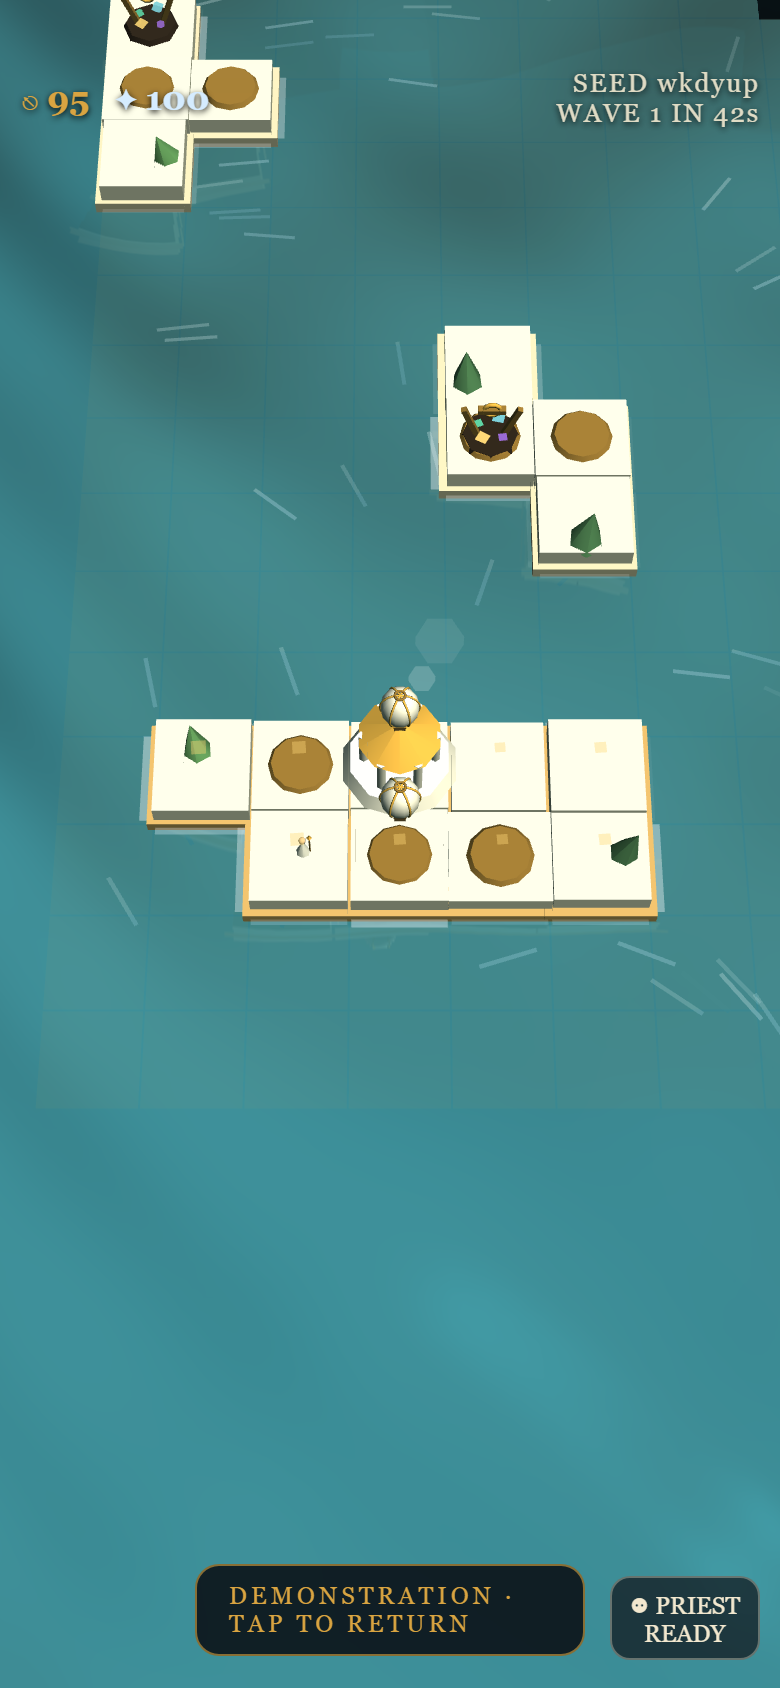
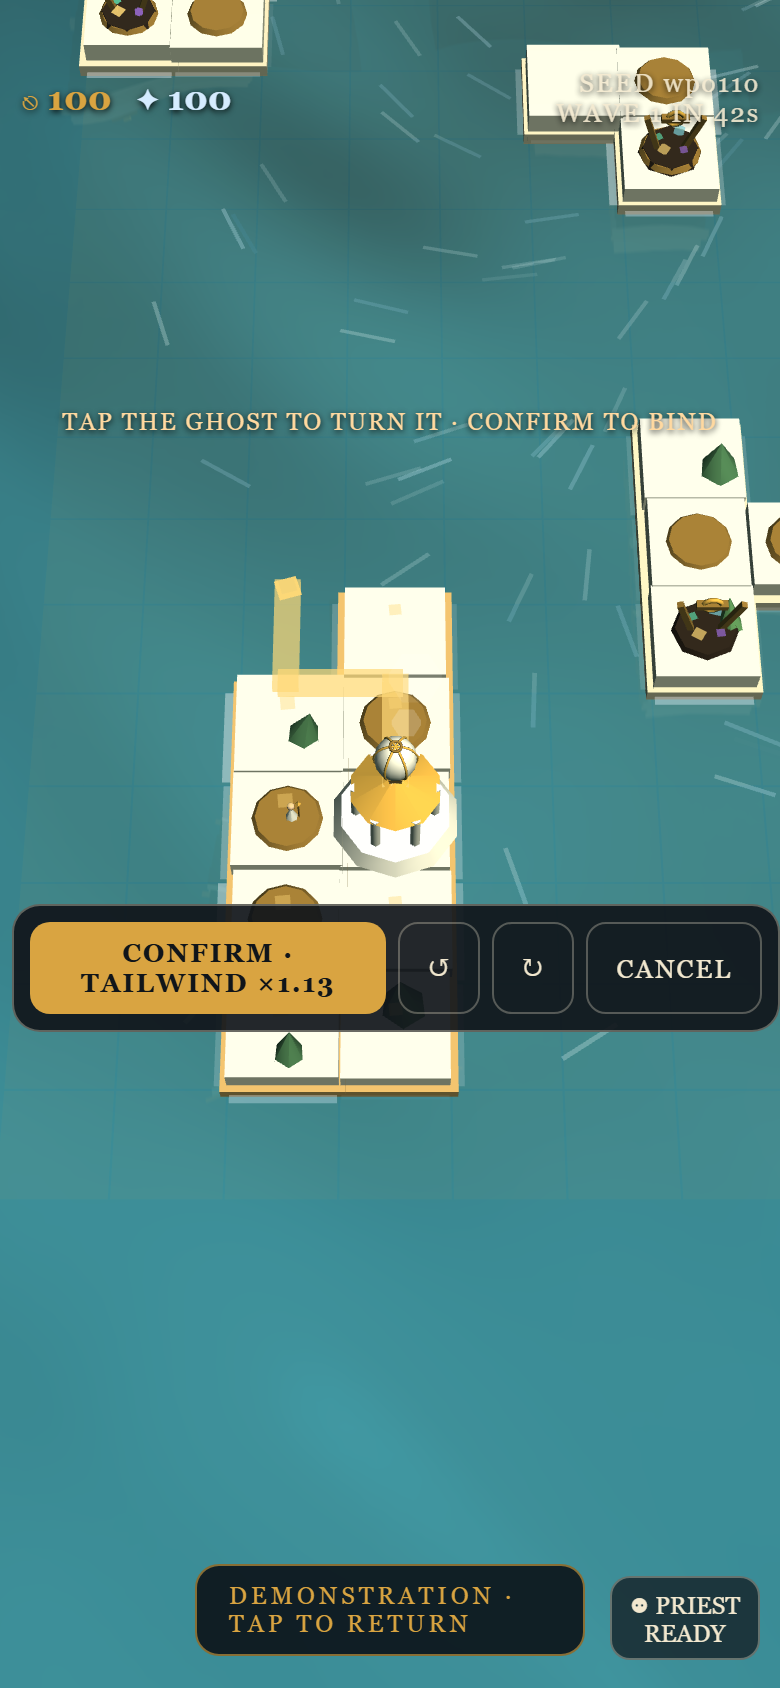
fix: demo never loops on a refused action; yard before hauler; moored counts
- WATCH mode (player reports): the demonstrator now raises a MOORING
  YARD before buying any hauler (the Great Temple moors two, so early
  purchase was legal but read as a cheat), and the island-menu BUILD
  HAULER button shows "N / M MOORED" with a raise-a-yard refusal line.
- Refused-press loop (seed wpm94e report): disabled menu buttons carry
  data-refused; the puppeteer never presses them, and any refused or
  silently-failed action is blacklisted for 30s so it moves on to its
  next priority. Verified on the reported seed: a refused bolt aborts
  in one beat and the full teach order runs (paths, priest, temple,
  vane, yard, haulers).

Claude-Session: https://claude.ai/code/session_01NjEpo5MjLFBKVLFNZET6tb

diff --git a/index.html b/index.html
@@ -7353,6 +7353,7 @@ function menuButton(label, cost, fn, disabledReason, descKey, favorCost) {
   if (disabledReason) {
     // still tappable: a tap explains WHY it is refused (mobile has no tooltips)
     btn.style.opacity = 0.4;
+    btn.dataset.refused = '1';   // the demo puppeteer must not press these
     btn.addEventListener('click', () => flashTicker(disabledReason));
   } else {
     btn.addEventListener('click', () => { fn(); hideBuildMenu(); });
@@ -7598,9 +7599,11 @@ function openContextMenu(state, cell, tapX, tapY, fx, fz) {
     if (hasYard) {
       const fleet = state.haulers.filter(h => h.owner === 'A' && h.state !== 'dead').length;
       const capped = fleet >= fleetCap(state, 'A');
-      groups.factory.push(menuButton('BUILD<br>HAULER', CONFIG.Hauler.COST, () => {
+      // show WHERE the mooring comes from (player report: a hauler
+      // "without having a mooring" — the Great Temple itself moors two)
+      groups.factory.push(menuButton('BUILD<br>HAULER<br><i style="font-size:9px">' + fleet + ' / ' + fleetCap(state, 'A') + ' MOORED</i>', CONFIG.Hauler.COST, () => {
         if (!buyHauler(state, 'A')) flashTicker('FLEET AT CAPACITY');
-      }, capped ? 'FLEET AT CAPACITY' : (state.res.A.supply < CONFIG.Hauler.COST ? 'NOT ENOUGH SUPPLY' : null), 'hauler'));
+      }, capped ? 'FLEET AT CAPACITY — RAISE A ' + (R.themeSea ? 'SHIPYARD' : 'MOORING YARD') : (state.res.A.supply < CONFIG.Hauler.COST ? 'NOT ENOUGH SUPPLY' : null), 'hauler'));
     }
   }
 
@@ -7949,6 +7952,15 @@ function initDemo(state) {
 function demoPlan(state) {
   const d = state.demoCtl;
   const p = state.priests.A;
+  // a refused or failed action is blacklisted for a while so the
+  // demonstrator moves on instead of looping (player report: it kept
+  // pressing a refused CHAIN VANE)
+  if (!d.bad) d.bad = new Map();
+  const ok = (plan) => {
+    if (!plan) return null;
+    const until = d.bad.get(plan.key + '@' + plan.cell.join(','));
+    return until && state.time < until ? null : plan;
+  };
   // 1. priest toward the supply island (only once a road reaches it —
   // otherwise fall through and LAY the road), then its temple
   if (p.state === 'idle' && !d.supply.temple && p.islandId !== d.supply.id &&
@@ -7956,7 +7968,8 @@ function demoPlan(state) {
     // SEND PRIEST lives on the island-BODY menu, not the plot menu
     const isPlot = ([x, z]) => d.supply.plots.some(pl => pl.x === x && pl.z === z);
     const c = d.supply.cells.find(cc => !isPlot(cc)) || d.supply.cells[0];
-    return { cell: [c[0], c[1]], key: 'priest', kind: 'instant' };
+    const pl = ok({ cell: [c[0], c[1]], key: 'priest', kind: 'instant' });
+    if (pl) return pl;
   }
   // a cell is only worth tapping if the build would actually be legal
   // there — whyNotBuild knows about the Great Temple's own footprint,
@@ -7966,14 +7979,26 @@ function demoPlan(state) {
   if (p.state === 'idle' && p.islandId === d.supply.id && !d.supply.temple &&
     state.res.A.supply >= CONFIG.Structures.TEMPLE.COST) {
     const c = buildableCell(d.supply, 'temple');
-    if (c) return { cell: [c[0], c[1]], key: 'temple', kind: 'ghost' };
+    const pl = c && ok({ cell: [c[0], c[1]], key: 'temple', kind: 'ghost' });
+    if (pl) return pl;
   }
   // 2. one home vane, early
   const home = state.gtA;
   if (state.time > 12 && state.res.A.supply >= 12 &&
     !state.structures.some(s => s.owner === 'A' && s.type === 'vane' && s.islandId === home.id)) {
     const c = buildableCell(home, 'vane');
-    if (c) return { cell: [c[0], c[1]], key: 'vane', kind: 'ghost' };
+    const pl = c && ok({ cell: [c[0], c[1]], key: 'vane', kind: 'ghost' });
+    if (pl) return pl;
+  }
+  // 2b. a mooring yard BEFORE any hauler purchase — the Great Temple
+  // itself moors two, so buying early is legal, but the demo must show
+  // where haulers come from (player report: a hauler bought "without
+  // having a mooring")
+  if (state.time > 20 && state.res.A.supply >= CONFIG.Yard.COST + CONFIG.Hauler.COST &&
+    !state.structures.some(s => s.owner === 'A' && s.type === 'yard')) {
+    const c = buildableCell(home, 'yard');
+    const pl = c && ok({ cell: [c[0], c[1]], key: 'yard', kind: 'ghost' });
+    if (pl) return pl;
   }
   // 3. a forward bolt now and then (with a TURN for show)
   if (state.time - d.lastGun > 45 && state.res.A.supply >= 14) {
@@ -7981,16 +8006,20 @@ function demoPlan(state) {
     ends.sort((a, b) =>
       (Math.abs(b.cell[0] - d.gt[0]) + Math.abs(b.cell[1] - d.gt[1])) -
       (Math.abs(a.cell[0] - d.gt[0]) + Math.abs(a.cell[1] - d.gt[1])));
-    if (ends.length) { d.lastGun = state.time; return { cell: ends[0].cell.slice(), key: 'bolt', kind: 'ghost', turns: 1 }; }
+    const pl = ends.length && ok({ cell: ends[0].cell.slice(), key: 'bolt', kind: 'ghost', turns: 1 });
+    if (pl) { d.lastGun = state.time; return pl; }
   }
-  // 4. a hauler when the fleet has room
+  // 4. a hauler when the fleet has room — but only after the yard
+  // stands, so the audience sees the mooring before the balloon
   const fleet = state.haulers.filter(h => h.owner === 'A' && h.state !== 'dead').length;
-  if (fleet < fleetCap(state, 'A') && state.res.A.supply >= CONFIG.Hauler.COST + 10) {
+  const yardUp = state.structures.some(s => s.owner === 'A' && s.type === 'yard' && s.hp > 0 && s.buildProgress >= 1);
+  if (yardUp && fleet < fleetCap(state, 'A') && state.res.A.supply >= CONFIG.Hauler.COST + 10) {
     // the BUILD HAULER button lives on the island-body menu: pick a
     // home cell that is NOT a marked plot so that branch opens
     const isPlot = ([x, z]) => home.plots.some(pl => pl.x === x && pl.z === z);
     const c = home.cells.find(cc => !isPlot(cc)) || home.cells[0];
-    return { cell: [c[0], c[1]], key: 'hauler', kind: 'instant' };
+    const pl = ok({ cell: [c[0], c[1]], key: 'hauler', kind: 'instant' });
+    if (pl) return pl;
   }
   // 5. otherwise: lay a path toward the objective, through the real menu
   const target = d.supply.temple && d.supply.temple.buildProgress >= 1 ? d.choke.center : d.supply.center;
@@ -8005,7 +8034,8 @@ function demoPlan(state) {
         if (dd < bestD) { bestD = dd; bestSock = sock; bestIdx = i; }
       }
     }
-    if (bestSock) return { cell: bestSock.cell.slice(), key: 'piece-' + type, kind: 'ghost', turns: Math.min(bestIdx, 3) };
+    const pl = bestSock && ok({ cell: bestSock.cell.slice(), key: 'piece-' + type, kind: 'ghost', turns: Math.min(bestIdx, 3) });
+    if (pl) return pl;
   }
   return null;
 }
@@ -8036,9 +8066,15 @@ function demoTick(state, dt) {
       } else d.nextAct = now + 2;
     }
   } else if (d.phase === 'press' && now - d.phaseAt > 0.9) {
-    const btn = demoHighlight('#buildmenu button[data-key="' + d.plan.key + '"]');
-    if (!btn) { hideBuildMenu(); d.phase = null; d.nextAct = now + 1.5; }
-    else { d.phase = 'click'; d.phaseAt = now; }
+    const btn = document.querySelector('#buildmenu button[data-key="' + d.plan.key + '"]');
+    if (!btn || btn.dataset.refused) {
+      // absent or refused: never press it — blacklist and move on
+      if (d.bad) d.bad.set(d.plan.key + '@' + d.plan.cell.join(','), now + 30);
+      hideBuildMenu();
+      d.phase = null;
+      d.nextAct = now + 1.2;
+    }
+    else { btn.classList.add('demopress'); d.phase = 'click'; d.phaseAt = now; }
   } else if (d.phase === 'click' && now - d.phaseAt > 0.7) {
     const btn = document.querySelector('#buildmenu button[data-key="' + d.plan.key + '"]');
     if (btn) btn.click();
@@ -8047,8 +8083,13 @@ function demoTick(state, dt) {
     else { d.phase = 'turn'; d.phaseAt = now; d.turnsLeft = d.plan.turns || 0; }
   } else if (d.phase === 'turn' && now - d.phaseAt > 0.6) {
     // the press may have failed silently (cost, ground taken): only a
-    // live ghost earns a CONFIRM performance
-    if (UI.mode !== 'placing' && !UI.structMode) { d.phase = null; d.nextAct = now + 1.5; }
+    // live ghost earns a CONFIRM performance — and the failure is
+    // blacklisted so the demonstrator never loops on it
+    if (UI.mode !== 'placing' && !UI.structMode) {
+      if (d.bad) d.bad.set(d.plan.key + '@' + d.plan.cell.join(','), now + 30);
+      d.phase = null;
+      d.nextAct = now + 1.5;
+    }
     else if (d.turnsLeft > 0) {
       const rot = document.getElementById('btn-rotate');
       if (rot && !rot.classList.contains('hidden')) { rot.classList.add('demopress'); rot.click(); setTimeout(() => rot.classList.remove('demopress'), 400); }

diff --git a/src/20_main.js b/src/20_main.js
@@ -114,6 +114,15 @@ function initDemo(state) {
 function demoPlan(state) {
   const d = state.demoCtl;
   const p = state.priests.A;
+  // a refused or failed action is blacklisted for a while so the
+  // demonstrator moves on instead of looping (player report: it kept
+  // pressing a refused CHAIN VANE)
+  if (!d.bad) d.bad = new Map();
+  const ok = (plan) => {
+    if (!plan) return null;
+    const until = d.bad.get(plan.key + '@' + plan.cell.join(','));
+    return until && state.time < until ? null : plan;
+  };
   // 1. priest toward the supply island (only once a road reaches it —
   // otherwise fall through and LAY the road), then its temple
   if (p.state === 'idle' && !d.supply.temple && p.islandId !== d.supply.id &&
@@ -121,7 +130,8 @@ function demoPlan(state) {
     // SEND PRIEST lives on the island-BODY menu, not the plot menu
     const isPlot = ([x, z]) => d.supply.plots.some(pl => pl.x === x && pl.z === z);
     const c = d.supply.cells.find(cc => !isPlot(cc)) || d.supply.cells[0];
-    return { cell: [c[0], c[1]], key: 'priest', kind: 'instant' };
+    const pl = ok({ cell: [c[0], c[1]], key: 'priest', kind: 'instant' });
+    if (pl) return pl;
   }
   // a cell is only worth tapping if the build would actually be legal
   // there — whyNotBuild knows about the Great Temple's own footprint,
@@ -131,14 +141,26 @@ function demoPlan(state) {
   if (p.state === 'idle' && p.islandId === d.supply.id && !d.supply.temple &&
     state.res.A.supply >= CONFIG.Structures.TEMPLE.COST) {
     const c = buildableCell(d.supply, 'temple');
-    if (c) return { cell: [c[0], c[1]], key: 'temple', kind: 'ghost' };
+    const pl = c && ok({ cell: [c[0], c[1]], key: 'temple', kind: 'ghost' });
+    if (pl) return pl;
   }
   // 2. one home vane, early
   const home = state.gtA;
   if (state.time > 12 && state.res.A.supply >= 12 &&
     !state.structures.some(s => s.owner === 'A' && s.type === 'vane' && s.islandId === home.id)) {
     const c = buildableCell(home, 'vane');
-    if (c) return { cell: [c[0], c[1]], key: 'vane', kind: 'ghost' };
+    const pl = c && ok({ cell: [c[0], c[1]], key: 'vane', kind: 'ghost' });
+    if (pl) return pl;
+  }
+  // 2b. a mooring yard BEFORE any hauler purchase — the Great Temple
+  // itself moors two, so buying early is legal, but the demo must show
+  // where haulers come from (player report: a hauler bought "without
+  // having a mooring")
+  if (state.time > 20 && state.res.A.supply >= CONFIG.Yard.COST + CONFIG.Hauler.COST &&
+    !state.structures.some(s => s.owner === 'A' && s.type === 'yard')) {
+    const c = buildableCell(home, 'yard');
+    const pl = c && ok({ cell: [c[0], c[1]], key: 'yard', kind: 'ghost' });
+    if (pl) return pl;
   }
   // 3. a forward bolt now and then (with a TURN for show)
   if (state.time - d.lastGun > 45 && state.res.A.supply >= 14) {
@@ -146,16 +168,20 @@ function demoPlan(state) {
     ends.sort((a, b) =>
       (Math.abs(b.cell[0] - d.gt[0]) + Math.abs(b.cell[1] - d.gt[1])) -
       (Math.abs(a.cell[0] - d.gt[0]) + Math.abs(a.cell[1] - d.gt[1])));
-    if (ends.length) { d.lastGun = state.time; return { cell: ends[0].cell.slice(), key: 'bolt', kind: 'ghost', turns: 1 }; }
+    const pl = ends.length && ok({ cell: ends[0].cell.slice(), key: 'bolt', kind: 'ghost', turns: 1 });
+    if (pl) { d.lastGun = state.time; return pl; }
   }
-  // 4. a hauler when the fleet has room
+  // 4. a hauler when the fleet has room — but only after the yard
+  // stands, so the audience sees the mooring before the balloon
   const fleet = state.haulers.filter(h => h.owner === 'A' && h.state !== 'dead').length;
-  if (fleet < fleetCap(state, 'A') && state.res.A.supply >= CONFIG.Hauler.COST + 10) {
+  const yardUp = state.structures.some(s => s.owner === 'A' && s.type === 'yard' && s.hp > 0 && s.buildProgress >= 1);
+  if (yardUp && fleet < fleetCap(state, 'A') && state.res.A.supply >= CONFIG.Hauler.COST + 10) {
     // the BUILD HAULER button lives on the island-body menu: pick a
     // home cell that is NOT a marked plot so that branch opens
     const isPlot = ([x, z]) => home.plots.some(pl => pl.x === x && pl.z === z);
     const c = home.cells.find(cc => !isPlot(cc)) || home.cells[0];
-    return { cell: [c[0], c[1]], key: 'hauler', kind: 'instant' };
+    const pl = ok({ cell: [c[0], c[1]], key: 'hauler', kind: 'instant' });
+    if (pl) return pl;
   }
   // 5. otherwise: lay a path toward the objective, through the real menu
   const target = d.supply.temple && d.supply.temple.buildProgress >= 1 ? d.choke.center : d.supply.center;
@@ -170,7 +196,8 @@ function demoPlan(state) {
         if (dd < bestD) { bestD = dd; bestSock = sock; bestIdx = i; }
       }
     }
-    if (bestSock) return { cell: bestSock.cell.slice(), key: 'piece-' + type, kind: 'ghost', turns: Math.min(bestIdx, 3) };
+    const pl = bestSock && ok({ cell: bestSock.cell.slice(), key: 'piece-' + type, kind: 'ghost', turns: Math.min(bestIdx, 3) });
+    if (pl) return pl;
   }
   return null;
 }
@@ -201,9 +228,15 @@ function demoTick(state, dt) {
       } else d.nextAct = now + 2;
     }
   } else if (d.phase === 'press' && now - d.phaseAt > 0.9) {
-    const btn = demoHighlight('#buildmenu button[data-key="' + d.plan.key + '"]');
-    if (!btn) { hideBuildMenu(); d.phase = null; d.nextAct = now + 1.5; }
-    else { d.phase = 'click'; d.phaseAt = now; }
+    const btn = document.querySelector('#buildmenu button[data-key="' + d.plan.key + '"]');
+    if (!btn || btn.dataset.refused) {
+      // absent or refused: never press it — blacklist and move on
+      if (d.bad) d.bad.set(d.plan.key + '@' + d.plan.cell.join(','), now + 30);
+      hideBuildMenu();
+      d.phase = null;
+      d.nextAct = now + 1.2;
+    }
+    else { btn.classList.add('demopress'); d.phase = 'click'; d.phaseAt = now; }
   } else if (d.phase === 'click' && now - d.phaseAt > 0.7) {
     const btn = document.querySelector('#buildmenu button[data-key="' + d.plan.key + '"]');
     if (btn) btn.click();
@@ -212,8 +245,13 @@ function demoTick(state, dt) {
     else { d.phase = 'turn'; d.phaseAt = now; d.turnsLeft = d.plan.turns || 0; }
   } else if (d.phase === 'turn' && now - d.phaseAt > 0.6) {
     // the press may have failed silently (cost, ground taken): only a
-    // live ghost earns a CONFIRM performance
-    if (UI.mode !== 'placing' && !UI.structMode) { d.phase = null; d.nextAct = now + 1.5; }
+    // live ghost earns a CONFIRM performance — and the failure is
+    // blacklisted so the demonstrator never loops on it
+    if (UI.mode !== 'placing' && !UI.structMode) {
+      if (d.bad) d.bad.set(d.plan.key + '@' + d.plan.cell.join(','), now + 30);
+      d.phase = null;
+      d.nextAct = now + 1.5;
+    }
     else if (d.turnsLeft > 0) {
       const rot = document.getElementById('btn-rotate');
       if (rot && !rot.classList.contains('hidden')) { rot.classList.add('demopress'); rot.click(); setTimeout(() => rot.classList.remove('demopress'), 400); }

diff --git a/src/19_ui.js b/src/19_ui.js
@@ -515,6 +515,7 @@ function menuButton(label, cost, fn, disabledReason, descKey, favorCost) {
   if (disabledReason) {
     // still tappable: a tap explains WHY it is refused (mobile has no tooltips)
     btn.style.opacity = 0.4;
+    btn.dataset.refused = '1';   // the demo puppeteer must not press these
     btn.addEventListener('click', () => flashTicker(disabledReason));
   } else {
     btn.addEventListener('click', () => { fn(); hideBuildMenu(); });
@@ -760,9 +761,11 @@ function openContextMenu(state, cell, tapX, tapY, fx, fz) {
     if (hasYard) {
       const fleet = state.haulers.filter(h => h.owner === 'A' && h.state !== 'dead').length;
       const capped = fleet >= fleetCap(state, 'A');
-      groups.factory.push(menuButton('BUILD<br>HAULER', CONFIG.Hauler.COST, () => {
+      // show WHERE the mooring comes from (player report: a hauler
+      // "without having a mooring" — the Great Temple itself moors two)
+      groups.factory.push(menuButton('BUILD<br>HAULER<br><i style="font-size:9px">' + fleet + ' / ' + fleetCap(state, 'A') + ' MOORED</i>', CONFIG.Hauler.COST, () => {
         if (!buyHauler(state, 'A')) flashTicker('FLEET AT CAPACITY');
-      }, capped ? 'FLEET AT CAPACITY' : (state.res.A.supply < CONFIG.Hauler.COST ? 'NOT ENOUGH SUPPLY' : null), 'hauler'));
+      }, capped ? 'FLEET AT CAPACITY — RAISE A ' + (R.themeSea ? 'SHIPYARD' : 'MOORING YARD') : (state.res.A.supply < CONFIG.Hauler.COST ? 'NOT ENOUGH SUPPLY' : null), 'hauler'));
     }
   }
 
